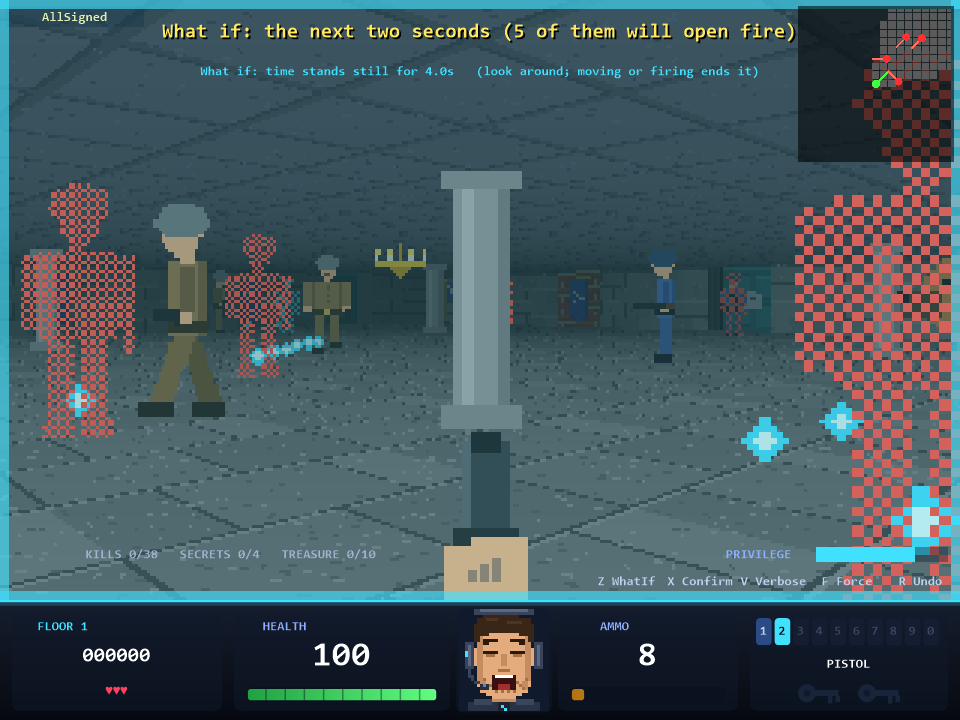
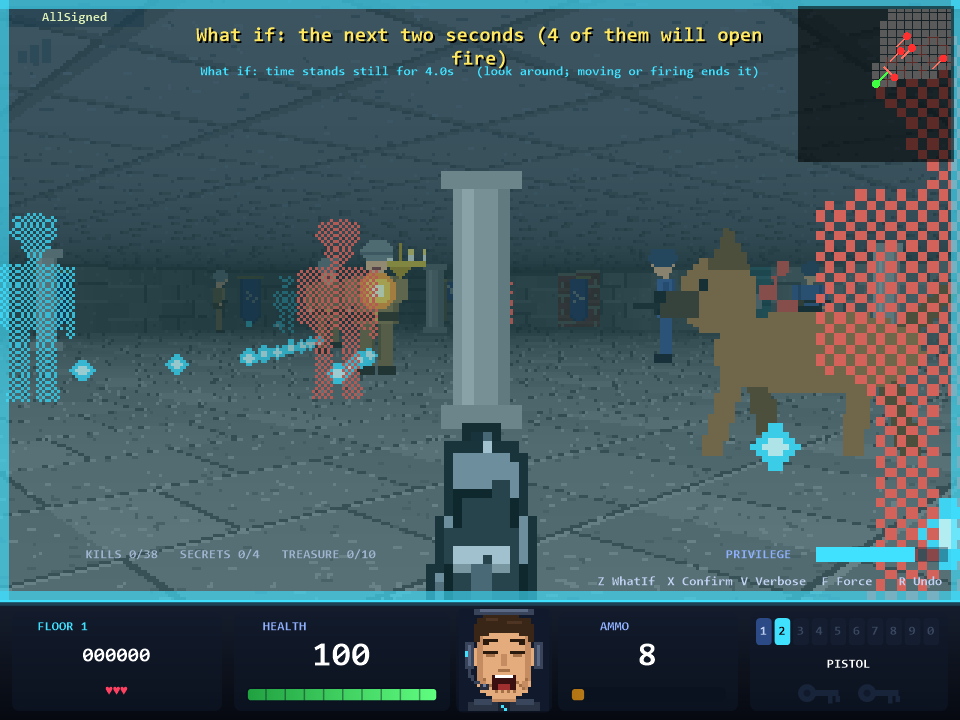
The weapons are drawn in perspective: little models, projected the way the world is
The weapon sprites were flat shapes stacked upwards, and every one of them looked as if it were aimed at the ceiling while hiding half the view. Each weapon is now a small model of boxes in metres from the eye - slide, barrel, magazine, sights, rings - and a camera with the game's own lens projects it onto the sprite: the far end runs towards the vanishing point where the crosshair is, the length shrinks to almost nothing, the top shows as a narrow lit trapezoid, round parts get a cylinder's shading across their top, and the recoil is the model moving back and up. The knives have flat blades that taper to the point. The muzzle flashes are smaller; the flamethrower and the pipeline cannon have none of their own, the flames and the beam are their effect, and the beam now leaves the muzzle. The README pictures and the GIF are rendered anew.

diff --git a/README.md b/README.md
@@ -657,6 +657,9 @@ A few details for the curious:
   over the clip, and LZW – by encoding every frame as a GIF of its own, and then does what Windows cannot: it cuts the
   frame out of each of those files and writes them one after the other, with a loop block in front and a delay
   before each.
+* **The weapon in your hands** is a little model of boxes, in metres from the eye, that a camera projects onto its
+  sprite the way the ray caster projects the world: the far end runs towards the vanishing point, the top shows as a
+  narrow lit trapezoid, round parts get a cylinder's shading, and the recoil is the model moving back and up.
 * **Approved verbs:** every function, including every internal helper, uses a verb from `Get-Verb`;
   [tools/Test-Verbs.ps1](tools/Test-Verbs.ps1) checks that via the AST.
 
